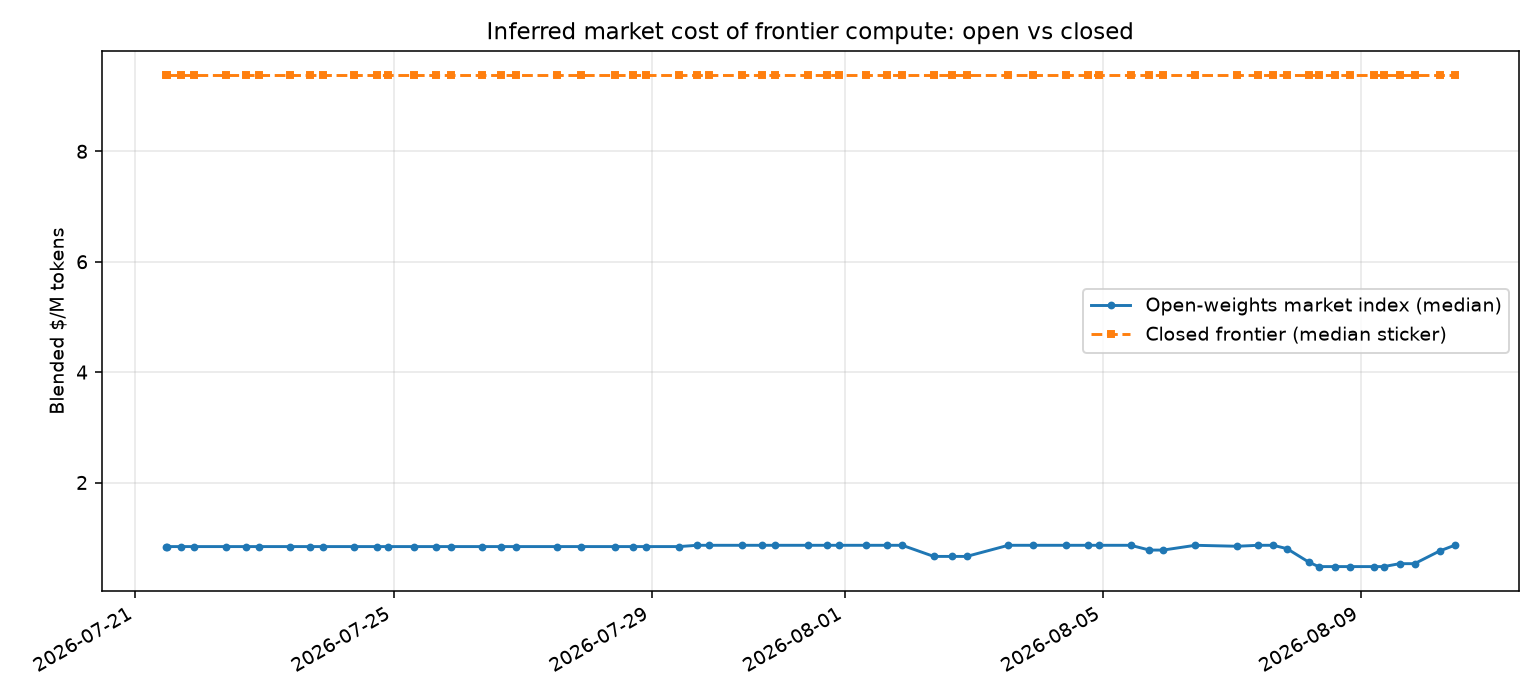
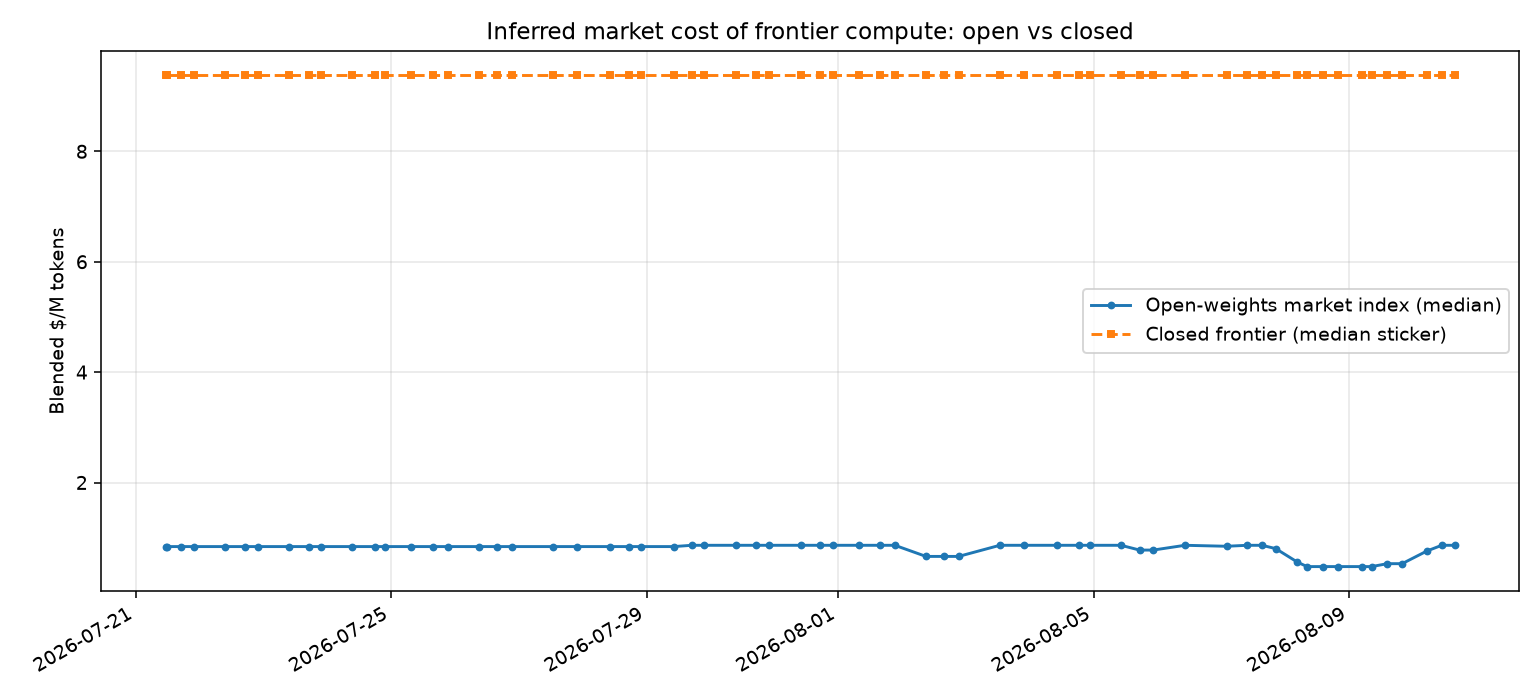
token-price-update

diff --git a/TOKEN_PRICE_SUMMARY.md b/TOKEN_PRICE_SUMMARY.md
@@ -1,5 +1,5 @@
 # Token Price Tracker — Summary
-_Last updated: 2026-08-10 10:45 UTC · latest snapshot: 2026-08-10 10:45:00 · 62 snapshots since 2026-07-21_
+_Last updated: 2026-08-10 15:34 UTC · latest snapshot: 2026-08-10 15:33:54 · 63 snapshots since 2026-07-21_
 
 ## Latest market cost per model (cheapest-3 avg, blended 3:1)
 
@@ -9,25 +9,25 @@ _Last updated: 2026-08-10 10:45 UTC · latest snapshot: 2026-08-10 10:45:00 · 6
 | anthropic/claude-opus-4.8 | closed | $10.00 | Amazon Bedrock ($10.00) | 8 |
 | anthropic/claude-sonnet-4.6 | closed | $6.00 | Anthropic ($6.00) | 7 |
 | deepseek/deepseek-v4-flash | open | $0.10 | DigitalOcean ($0.09) | 20 |
-| deepseek/deepseek-v4-pro | open | $0.70 | DeepSeek ($0.54) | 18 |
+| deepseek/deepseek-v4-pro | open | $0.73 | DeepSeek ($0.54) | 18 |
 | minimax/minimax-m3 | open | $0.48 | GMICloud ($0.42) | 9 |
 | moonshotai/kimi-k2.5 | open | $0.86 | DigitalOcean ($0.79) | 10 |
-| moonshotai/kimi-k2.6 | open | $1.22 | StreamLake ($1.08) | 21 |
+| moonshotai/kimi-k2.6 | open | $1.14 | Baidu ($1.04) | 21 |
 | moonshotai/kimi-k3 | open | $5.67 | Morph ($5.60) | 12 |
 | openai/gpt-5.5 | closed | $9.38 | OpenAI ($5.62) | 6 |
 | openai/gpt-5.6-sol | closed | $9.38 | OpenAI ($5.62) | 6 |
-| z-ai/glm-5.2 | open | $1.11 | Decart ($0.99) | 32 |
+| z-ai/glm-5.2 | open | $1.13 | Decart ($1.06) | 32 |
 
-**Closed/open price multiple right now: 7.7x** (closed median $11.00 vs open $1.44)
+**Closed/open price multiple right now: 7.8x** (closed median $11.00 vs open $1.41)
 
 ## Regional comparison (open models, same model+quant only)
 
 | Region | Offers | Rel. price (1.0=parity) | Median $/M |
 |---|---|---|---|
-| ASIA | 4 | 0.72 | $0.62 |
+| ASIA | 4 | 0.73 | $0.62 |
 | DECENTRALIZED | 2 | 0.95 | $3.64 |
-| CN | 21 | 1.00 | $1.43 |
-| UNKNOWN | 61 | 1.00 | $1.37 |
+| CN | 21 | 1.00 | $1.20 |
+| UNKNOWN | 61 | 1.00 | $1.29 |
 | US | 30 | 1.00 | $2.15 |
 
 _Caveat: this measures offer **price**, not underlying cost; regional gaps can reflect margin strategy, subsidies, or capacity, not just electricity and hardware costs._
